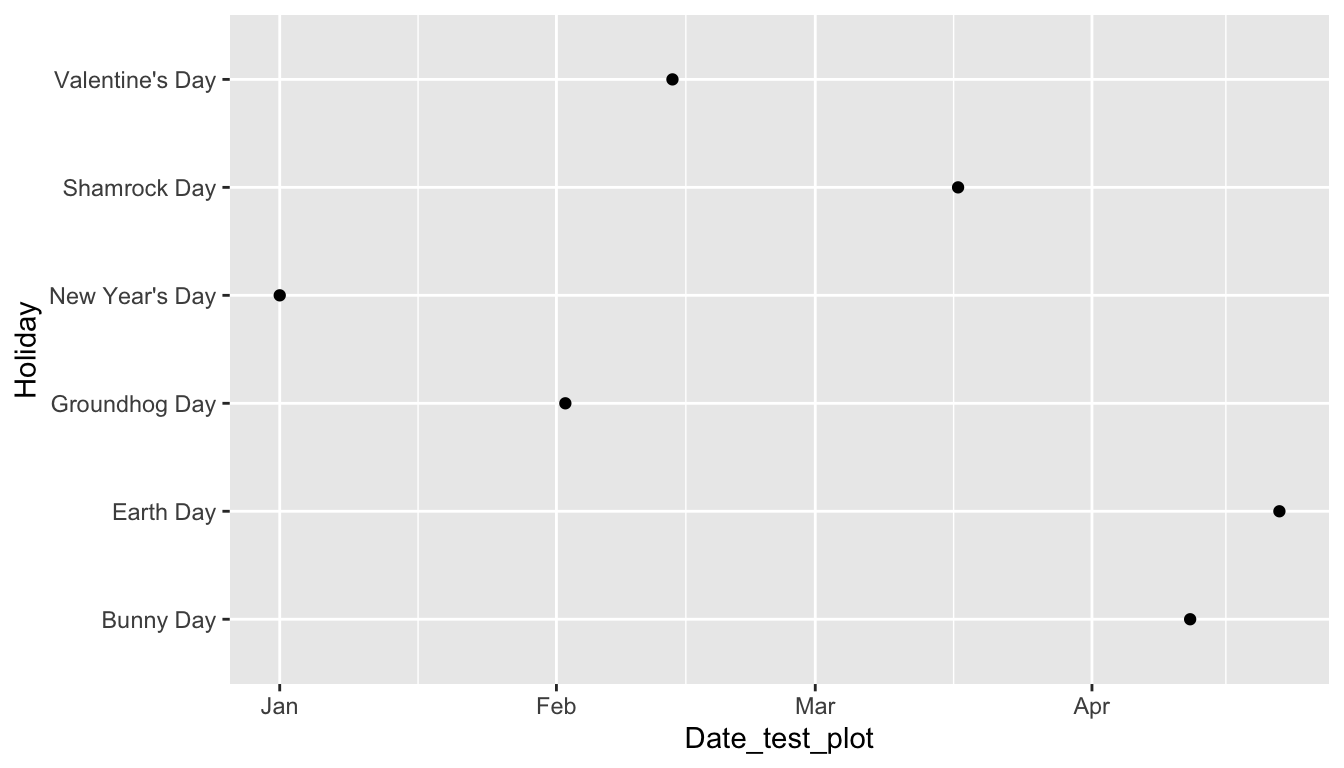
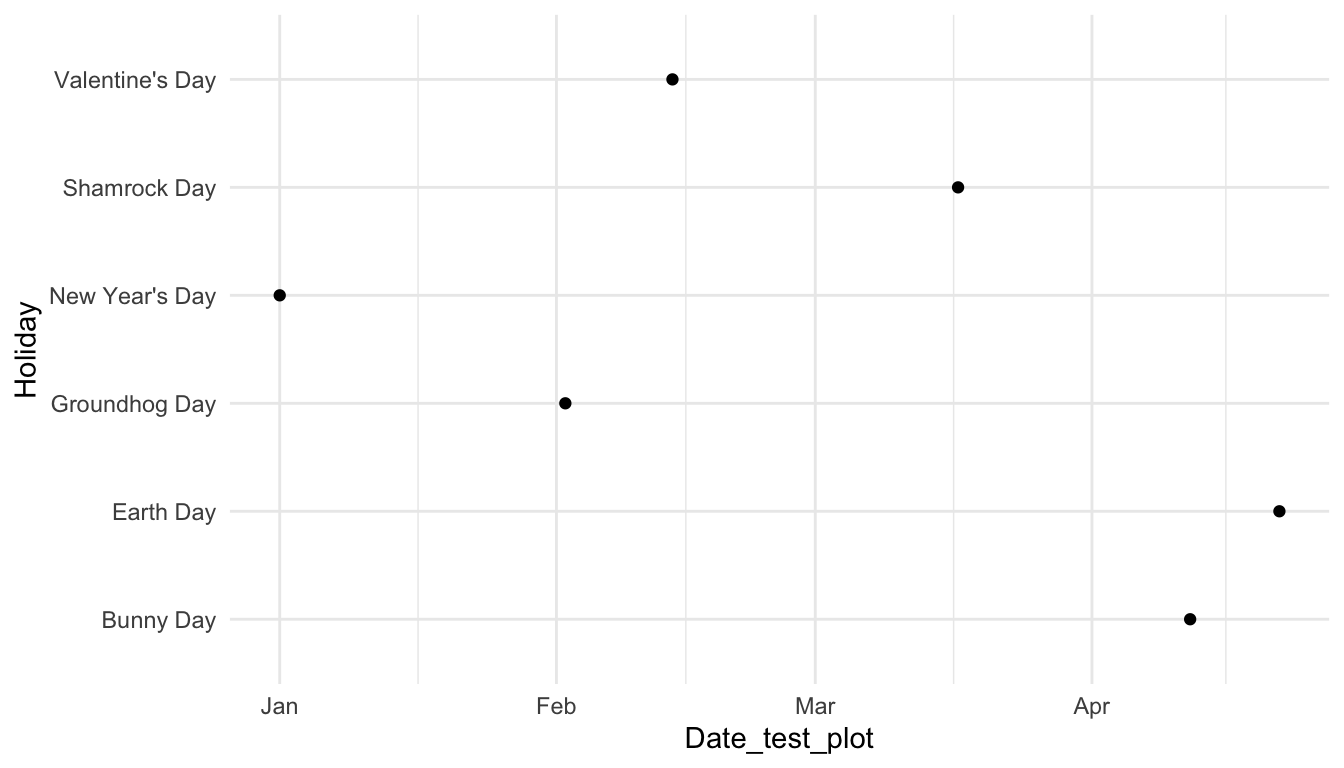
switched knn exercises and added a couple of lubridate exercises on stocks.

diff --git a/docs/11-lubridate.html b/docs/11-lubridate.html
@@ -320,9 +320,9 @@ pre > code.sourceCode > span > a:first-child::before { text-decoration: underlin
 <div class="sourceCode" id="cb1"><pre class="downlit sourceCode r code-with-copy"><code class="sourceCode R"><span><span class="kw"><a href="https://rdrr.io/r/base/library.html">library</a></span><span class="op">(</span><span class="va"><a href="https://tidyverse.tidyverse.org">tidyverse</a></span><span class="op">)</span></span>
 <span><span class="kw"><a href="https://rdrr.io/r/base/library.html">library</a></span><span class="op">(</span><span class="va"><a href="https://lubridate.tidyverse.org">lubridate</a></span><span class="op">)</span></span>
 <span><span class="fu"><a href="https://lubridate.tidyverse.org/reference/now.html">today</a></span><span class="op">(</span><span class="op">)</span></span>
-<span><span class="co">#&gt; [1] "2024-03-31"</span></span>
+<span><span class="co">#&gt; [1] "2024-04-04"</span></span>
 <span><span class="fu"><a href="https://lubridate.tidyverse.org/reference/now.html">now</a></span><span class="op">(</span><span class="op">)</span></span>
-<span><span class="co">#&gt; [1] "2024-03-31 12:21:26 EDT"</span></span></code><button title="Copy to Clipboard" class="code-copy-button"><i class="bi"></i></button></pre></div>
+<span><span class="co">#&gt; [1] "2024-04-04 09:24:30 EDT"</span></span></code><button title="Copy to Clipboard" class="code-copy-button"><i class="bi"></i></button></pre></div>
 </div>
 <p>This first section will deal with how to convert a variable in <code>R</code> to be a <code>Date</code>. We will use a data set that has the holidays of Animal Crossing from January to April. The columns in this data set are:</p>
 <ul>
@@ -401,7 +401,8 @@ Important
 <p><strong>A Reminder</strong>: Why do <code>&lt;date&gt;</code> objects even matter? Compare the following two plots: one made where the date is in <code>&lt;chr&gt;</code> form and the other where date is in its appropriate <code>&lt;date&gt;</code> form.</p>
 <div class="cell" data-appendix="true">
 <div class="sourceCode" id="cb4"><pre class="downlit sourceCode r code-with-copy"><code class="sourceCode R"><span><span class="fu"><a href="https://ggplot2.tidyverse.org/reference/ggplot.html">ggplot</a></span><span class="op">(</span>data <span class="op">=</span> <span class="va">holiday_df</span>, <span class="fu"><a href="https://ggplot2.tidyverse.org/reference/aes.html">aes</a></span><span class="op">(</span>x <span class="op">=</span> <span class="va">Date1</span>, y <span class="op">=</span> <span class="va">Holiday</span><span class="op">)</span><span class="op">)</span> <span class="op">+</span></span>
-<span>  <span class="fu"><a href="https://ggplot2.tidyverse.org/reference/geom_point.html">geom_point</a></span><span class="op">(</span><span class="op">)</span></span></code><button title="Copy to Clipboard" class="code-copy-button"><i class="bi"></i></button></pre></div>
+<span>  <span class="fu"><a href="https://ggplot2.tidyverse.org/reference/geom_point.html">geom_point</a></span><span class="op">(</span><span class="op">)</span> <span class="op">+</span> </span>
+<span>  <span class="fu"><a href="https://ggplot2.tidyverse.org/reference/ggtheme.html">theme_minimal</a></span><span class="op">(</span><span class="op">)</span></span></code><button title="Copy to Clipboard" class="code-copy-button"><i class="bi"></i></button></pre></div>
 <div class="cell-output-display">
 <p><img src="11-lubridate_files/figure-html/unnamed-chunk-5-1.png" class="img-fluid" width="672"></p>
 </div>
@@ -409,7 +410,8 @@ Important
 <span><span class="va">holiday_df</span> <span class="op">&lt;-</span> <span class="va">holiday_df</span> <span class="op">|&gt;</span> <span class="fu"><a href="https://dplyr.tidyverse.org/reference/mutate.html">mutate</a></span><span class="op">(</span>Date_test_plot <span class="op">=</span> <span class="fu"><a href="https://lubridate.tidyverse.org/reference/ymd.html">dmy</a></span><span class="op">(</span><span class="va">Date1</span><span class="op">)</span><span class="op">)</span> <span class="op">|&gt;</span></span>
 <span>  <span class="fu"><a href="https://dplyr.tidyverse.org/reference/select.html">select</a></span><span class="op">(</span><span class="va">Date_test_plot</span>, <span class="fu"><a href="https://tidyselect.r-lib.org/reference/everything.html">everything</a></span><span class="op">(</span><span class="op">)</span><span class="op">)</span></span>
 <span><span class="fu"><a href="https://ggplot2.tidyverse.org/reference/ggplot.html">ggplot</a></span><span class="op">(</span>data <span class="op">=</span> <span class="va">holiday_df</span>, <span class="fu"><a href="https://ggplot2.tidyverse.org/reference/aes.html">aes</a></span><span class="op">(</span>x <span class="op">=</span> <span class="va">Date_test_plot</span>, y <span class="op">=</span> <span class="va">Holiday</span><span class="op">)</span><span class="op">)</span> <span class="op">+</span></span>
-<span>  <span class="fu"><a href="https://ggplot2.tidyverse.org/reference/geom_point.html">geom_point</a></span><span class="op">(</span><span class="op">)</span></span></code><button title="Copy to Clipboard" class="code-copy-button"><i class="bi"></i></button></pre></div>
+<span>  <span class="fu"><a href="https://ggplot2.tidyverse.org/reference/geom_point.html">geom_point</a></span><span class="op">(</span><span class="op">)</span> <span class="op">+</span></span>
+<span>  <span class="fu"><a href="https://ggplot2.tidyverse.org/reference/ggtheme.html">theme_minimal</a></span><span class="op">(</span><span class="op">)</span></span></code><button title="Copy to Clipboard" class="code-copy-button"><i class="bi"></i></button></pre></div>
 <div class="cell-output-display">
 <p><img src="11-lubridate_files/figure-html/unnamed-chunk-5-2.png" class="img-fluid" width="672"></p>
 </div>
@@ -537,7 +539,8 @@ Note
 <div class="cell" data-appendix="true">
 <div class="sourceCode" id="cb10"><pre class="downlit sourceCode r code-with-copy"><code class="sourceCode R"><span><span class="va">stocks_sp</span> <span class="op">&lt;-</span> <span class="va">stocks_long</span> <span class="op">|&gt;</span> <span class="fu"><a href="https://dplyr.tidyverse.org/reference/filter.html">filter</a></span><span class="op">(</span><span class="va">Stock_Type</span> <span class="op">==</span> <span class="st">"S &amp; P 500"</span><span class="op">)</span></span>
 <span><span class="fu"><a href="https://ggplot2.tidyverse.org/reference/ggplot.html">ggplot</a></span><span class="op">(</span>data <span class="op">=</span> <span class="va">stocks_sp</span>, <span class="fu"><a href="https://ggplot2.tidyverse.org/reference/aes.html">aes</a></span><span class="op">(</span>x <span class="op">=</span> <span class="va">start_date</span>, y <span class="op">=</span> <span class="va">Price</span><span class="op">)</span><span class="op">)</span> <span class="op">+</span></span>
-<span>  <span class="fu"><a href="https://ggplot2.tidyverse.org/reference/geom_path.html">geom_line</a></span><span class="op">(</span><span class="op">)</span></span></code><button title="Copy to Clipboard" class="code-copy-button"><i class="bi"></i></button></pre></div>
+<span>  <span class="fu"><a href="https://ggplot2.tidyverse.org/reference/geom_path.html">geom_line</a></span><span class="op">(</span><span class="op">)</span> <span class="op">+</span></span>
+<span>  <span class="fu"><a href="https://ggplot2.tidyverse.org/reference/ggtheme.html">theme_minimal</a></span><span class="op">(</span><span class="op">)</span></span></code><button title="Copy to Clipboard" class="code-copy-button"><i class="bi"></i></button></pre></div>
 <div class="cell-output-display">
 <p><img src="11-lubridate_files/figure-html/unnamed-chunk-10-1.png" class="img-fluid" width="672"></p>
 </div>
@@ -642,19 +645,7 @@ Note
 <span class="header-section-number">12.3</span> Practice</h2>
 <section id="class-exercises" class="level3" data-number="12.3.1"><h3 data-number="12.3.1" class="anchored" data-anchor-id="class-exercises">
 <span class="header-section-number">12.3.1</span> Class Exercises</h3>
-<p><strong>Class Exercise 1</strong>. The <code>truncated</code> argument to <code><a href="https://lubridate.tidyverse.org/reference/ymd.html">ymd()</a></code>, <code><a href="https://lubridate.tidyverse.org/reference/ymd.html">dmy()</a></code>, <code><a href="https://lubridate.tidyverse.org/reference/ymd.html">mdy()</a></code>, etc. will allow <code>R</code> to parse dates that aren’t actually complete. For example,</p>
-<div class="cell">
-<div class="sourceCode" id="cb16"><pre class="downlit sourceCode r code-with-copy"><code class="sourceCode R"><span><span class="kw"><a href="https://rdrr.io/r/base/library.html">library</a></span><span class="op">(</span><span class="va"><a href="https://lubridate.tidyverse.org">lubridate</a></span><span class="op">)</span></span>
-<span><span class="fu"><a href="https://lubridate.tidyverse.org/reference/ymd.html">ymd</a></span><span class="op">(</span><span class="st">"2019"</span>, truncated <span class="op">=</span> <span class="fl">2</span><span class="op">)</span></span>
-<span><span class="co">#&gt; [1] "2019-01-01"</span></span></code><button title="Copy to Clipboard" class="code-copy-button"><i class="bi"></i></button></pre></div>
-</div>
-<p>parses <code>2019</code> to be January 1, 2019 when the month and day are missing. The <code>2</code> means that the last two parts of the date (in this case, month and day) are allowed to be missing. Similarly,</p>
-<div class="cell">
-<div class="sourceCode" id="cb17"><pre class="downlit sourceCode r code-with-copy"><code class="sourceCode R"><span><span class="fu"><a href="https://lubridate.tidyverse.org/reference/ymd.html">dmy</a></span><span class="op">(</span><span class="st">"19-10"</span>, truncated <span class="op">=</span> <span class="fl">1</span><span class="op">)</span></span>
-<span><span class="co">#&gt; [1] "0000-10-19"</span></span></code><button title="Copy to Clipboard" class="code-copy-button"><i class="bi"></i></button></pre></div>
-</div>
-<p>truncates the year (which is given as <code>0000</code>). The truncate function is usually most useful in the context of the first example with a truncated month and/or day.</p>
-<p>Examine the <code>ds_google.csv</code>, which contains</p>
+<p>Examine the <code>ds_google.csv</code> data, which contains</p>
 <ul>
 <li>
 <code>Month</code>, the year and month from 2004 to now</li>
@@ -662,7 +653,7 @@ Note
 <code>Data_Science</code>, the relative popularity of data science (Google keeps how it calculates “popularity” as somewhat of a mystery but it is likely based off of the number of times people search for the term “Data Science”)</li>
 </ul>
 <div class="cell">
-<div class="sourceCode" id="cb18"><pre class="downlit sourceCode r code-with-copy"><code class="sourceCode R"><span><span class="kw"><a href="https://rdrr.io/r/base/library.html">library</a></span><span class="op">(</span><span class="va"><a href="https://tidyverse.tidyverse.org">tidyverse</a></span><span class="op">)</span></span>
+<div class="sourceCode" id="cb16"><pre class="downlit sourceCode r code-with-copy"><code class="sourceCode R"><span><span class="kw"><a href="https://rdrr.io/r/base/library.html">library</a></span><span class="op">(</span><span class="va"><a href="https://tidyverse.tidyverse.org">tidyverse</a></span><span class="op">)</span></span>
 <span><span class="kw"><a href="https://rdrr.io/r/base/library.html">library</a></span><span class="op">(</span><span class="va"><a href="https://lubridate.tidyverse.org">lubridate</a></span><span class="op">)</span></span>
 <span><span class="va">ds_df</span> <span class="op">&lt;-</span> <span class="fu"><a href="https://readr.tidyverse.org/reference/read_delim.html">read_csv</a></span><span class="op">(</span><span class="fu"><a href="https://here.r-lib.org//reference/here.html">here</a></span><span class="op">(</span><span class="st">"data/ds_google.csv"</span><span class="op">)</span><span class="op">)</span></span>
 <span><span class="va">ds_df</span></span>
@@ -677,10 +668,13 @@ Note
 <span><span class="co">#&gt; 6 2004-06            8</span></span>
 <span><span class="co">#&gt; # ℹ 196 more rows</span></span></code><button title="Copy to Clipboard" class="code-copy-button"><i class="bi"></i></button></pre></div>
 </div>
-<p>Use a <code>lubridate</code> function with the <code>truncated</code> option to convert the <code>Month</code> variable to be in the <code>&lt;date&gt;</code> format.</p>
+<p><strong>Class Exercise 1</strong>. Use a <code>lubridate</code> function to convert the <code>Month</code> variable to be in the <code>&lt;date&gt;</code> format. Note that, in addition to <code><a href="https://lubridate.tidyverse.org/reference/ymd.html">mdy()</a></code>, <code><a href="https://lubridate.tidyverse.org/reference/ymd.html">dmy()</a></code>, <code><a href="https://lubridate.tidyverse.org/reference/ymd.html">ymd()</a></code>, etc., there are also functions in lubridate like <code>md()</code>, <code>dm()</code>, and <code><a href="https://lubridate.tidyverse.org/reference/ymd.html">ym()</a></code> that are useful if only two of the three parts of a date are present in a variable.</p>
+<p>After converting the <code>Month</code> variable to a date, figure out what <code>R</code> does for the “day” part of the date when it’s not specified in the original variable.</p>
 <p><strong>Class Exercise 2</strong>. Make a plot of the popularity of Data Science through Time. Add a smoother to your plot. What patterns do you notice?</p>
 <p><strong>Class Exercise 3</strong>. Modify the code in the tutorial section on the Stocks data to get a data frame on stock prices for the now infamous Gamestop stock. Construct a line plot of the price through time.</p>
-<p><strong>Class Exercise 4</strong>. Use the <code><a href="https://dplyr.tidyverse.org/reference/lead-lag.html">lag()</a></code> function to create a new variable that is the previous day’s stock price. Can you predict the current stock price based on the previous day’s stock price accurately? Why or why not? Use either graphical or numerical evidence.</p>
+<p><strong>Class Exercise 4</strong>. Choose <strong>one</strong> stock and use the <code><a href="https://dplyr.tidyverse.org/reference/lead-lag.html">lag()</a></code> function to create a new variable that is the previous day’s stock price for that stock. For what proportion of days was the stock’s closing price <strong>higher</strong> than it was at close for the day before (indicating that someone who bought shares on Day xxx would have made money at the end of Day xxx + 1).</p>
+<p><strong>Class Exercise 5</strong>. Those interested in finance/economics might see the naivety of the approach above: usually, the stock market is more thought of as a long-term investment, not a day-to-day investment. For the stock that you selected, adjust your analysis so that you compute the proportion of weeks that a stock’s closing price was <strong>higher</strong> than it was at close the week before. To simplify things a little, you should only compute this proportion for <strong>Wednesdays</strong> (and drop the rest of the data).</p>
+<p><strong>Class Exercise 6</strong>. Those interested in finance/economics might see the naivety of the approach above: usually, the stock market is more thought of as a long-term investment, not a week-to-week investment. For the stock that you selected, adjust your analysis so that you compute the proportion of months that a stock’s closing price was <strong>higher</strong> than it was at close the month before. To simplify things a little, you should only compute this proportion for <strong>the first day of each month</strong> (and drop the rest of the data).</p>
 </section><section id="your-turn" class="level3" data-number="12.3.2"><h3 data-number="12.3.2" class="anchored" data-anchor-id="your-turn">
 <span class="header-section-number">12.3.2</span> Your Turn</h3>
 <p>The data in the Class Exercises was obtained from Google Trends: <a href="https://trends.google.com/trends/?geo=US" target="_blank">Google Trends</a>. Google Trends is incredibly cool to explore, even without <code>R</code>.</p>

diff --git a/docs/13-knn.html b/docs/13-knn.html
@@ -458,20 +458,52 @@ Note
 <span><span class="va">tab</span> <span class="op">&lt;-</span> <span class="fu"><a href="https://rdrr.io/r/base/table.html">table</a></span><span class="op">(</span><span class="va">knn_mod</span>, <span class="va">test_cat</span><span class="op">)</span></span>
 <span><span class="fu"><a href="https://rdrr.io/r/base/sum.html">sum</a></span><span class="op">(</span><span class="fu"><a href="https://rdrr.io/r/base/diag.html">diag</a></span><span class="op">(</span><span class="va">tab</span><span class="op">)</span><span class="op">)</span> <span class="op">/</span> <span class="fu"><a href="https://rdrr.io/r/base/sum.html">sum</a></span><span class="op">(</span><span class="va">tab</span><span class="op">)</span></span></code><button title="Copy to Clipboard" class="code-copy-button"><i class="bi"></i></button></pre></div>
 </div>
-<p>If we want to automate generating a classification rate for a knn model with particular predictors, we have two major choices: loop through different values of <span class="math inline">\(k\)</span> or write a function and <code><a href="https://purrr.tidyverse.org/reference/map.html">map()</a></code> across different values of <span class="math inline">\(k\)</span>.</p>
-<p><strong>Class Exercise 1</strong>. First, we will see how this would work if we were to write a for loop for different values of <span class="math inline">\(k\)</span>:</p>
+<p>If we want to automate generating a classification rate for a knn model with particular predictors, we have two major choices: write a function and <code><a href="https://purrr.tidyverse.org/reference/map.html">map()</a></code> across different values of <span class="math inline">\(k\)</span> or loop through different values of <span class="math inline">\(k\)</span> with a <code>for</code> loop.</p>
+<p><strong>Class Exercise 1</strong>. First, we will take a functional programming approach, by writing a function and “mapping” different values of <span class="math inline">\(k\)</span> through that function. The following code writes a function called <code>get_class_rate</code> that has just a single argument: <code>k_val</code></p>
 <div class="cell">
-<div class="sourceCode" id="cb9"><pre class="downlit sourceCode r code-with-copy"><code class="sourceCode R"><span><span class="co">## define an empty vector to store results</span></span>
+<div class="sourceCode" id="cb9"><pre class="downlit sourceCode r code-with-copy"><code class="sourceCode R"><span><span class="va">get_class_rate</span> <span class="op">&lt;-</span> <span class="kw">function</span><span class="op">(</span><span class="va">k_val</span><span class="op">)</span> <span class="op">{</span></span>
+<span>  <span class="va">knn_mod</span> <span class="op">&lt;-</span> <span class="fu"><a href="https://rdrr.io/pkg/class/man/knn.html">knn</a></span><span class="op">(</span>train <span class="op">=</span> <span class="va">train_pokemon</span>, test <span class="op">=</span> <span class="va">test_pokemon</span>,</span>
+<span>                 cl <span class="op">=</span> <span class="va">train_cat</span>, k <span class="op">=</span> <span class="va">k_val</span><span class="op">)</span></span>
+<span>  <span class="va">knn_mod</span></span>
+<span>  </span>
+<span>  <span class="va">tab</span> <span class="op">&lt;-</span> <span class="fu"><a href="https://rdrr.io/r/base/table.html">table</a></span><span class="op">(</span><span class="va">knn_mod</span>, <span class="va">test_cat</span><span class="op">)</span></span>
+<span>  <span class="va">class_rate</span> <span class="op">&lt;-</span> <span class="fu"><a href="https://rdrr.io/r/base/sum.html">sum</a></span><span class="op">(</span><span class="fu"><a href="https://rdrr.io/r/base/diag.html">diag</a></span><span class="op">(</span><span class="va">tab</span><span class="op">)</span><span class="op">)</span> <span class="op">/</span> <span class="fu"><a href="https://rdrr.io/r/base/sum.html">sum</a></span><span class="op">(</span><span class="va">tab</span><span class="op">)</span></span>
+<span>  </span>
+<span>  <span class="kw"><a href="https://rdrr.io/r/base/function.html">return</a></span><span class="op">(</span><span class="va">class_rate</span><span class="op">)</span></span>
+<span><span class="op">}</span></span></code><button title="Copy to Clipboard" class="code-copy-button"><i class="bi"></i></button></pre></div>
+</div>
+<ol type="a">
+<li><p>Run the code and then test the function by running <code>get_class_rate(k_val = 10)</code>, which should return the classification rate using <code>10</code> nearest neighbors.</p></li>
+<li><p>Together, we will define a vector of k values that we want to map through the function and then write code to perform the mapping using the <code><a href="https://purrr.tidyverse.org/reference/map.html">map()</a></code> function from the <code>purrr</code> package.</p></li>
+</ol>
+<ol start="3" type="a">
+<li>Put the classification rates, along with the vector of k values into a <code><a href="https://tibble.tidyverse.org/reference/tibble.html">tibble()</a></code>.</li>
+</ol>
+<ol start="4" type="a">
+<li>Make a line plot that shows how the classification rate changes for different values of <code>k</code>.</li>
+</ol>
+<p>The code below gives an equivalent way to map or loop through values of <span class="math inline">\(k\)</span> using a <code>for</code> loop. If you have taken CS 140, you should be able to see a lot of similarities between how loops are defiend in <code>R</code> and how they are defined in Python.</p>
+<div class="cell">
+<div class="sourceCode" id="cb10"><pre class="downlit sourceCode r code-with-copy"><code class="sourceCode R"><span><span class="co">## define an empty vector to store results</span></span>
 <span><span class="va">class_rate</span> <span class="op">&lt;-</span> <span class="fu"><a href="https://rdrr.io/r/base/double.html">double</a></span><span class="op">(</span><span class="op">)</span></span>
 <span></span>
-<span><span class="va">knn_mod</span> <span class="op">&lt;-</span> <span class="fu"><a href="https://rdrr.io/pkg/class/man/knn.html">knn</a></span><span class="op">(</span>train <span class="op">=</span> <span class="va">train_pokemon</span>, test <span class="op">=</span> <span class="va">test_pokemon</span>,</span>
-<span>               cl <span class="op">=</span> <span class="va">train_cat</span>, k <span class="op">=</span> <span class="fl">9</span><span class="op">)</span></span>
-<span><span class="va">knn_mod</span></span>
+<span><span class="co">## define values of k that we want to loop through</span></span>
+<span><span class="va">k_vec</span> <span class="op">&lt;-</span> <span class="fl">1</span><span class="op">:</span><span class="fl">70</span></span>
 <span></span>
-<span><span class="va">tab</span> <span class="op">&lt;-</span> <span class="fu"><a href="https://rdrr.io/r/base/table.html">table</a></span><span class="op">(</span><span class="va">knn_mod</span>, <span class="va">test_cat</span><span class="op">)</span></span>
-<span><span class="fu"><a href="https://rdrr.io/r/base/sum.html">sum</a></span><span class="op">(</span><span class="fu"><a href="https://rdrr.io/r/base/diag.html">diag</a></span><span class="op">(</span><span class="va">tab</span><span class="op">)</span><span class="op">)</span> <span class="op">/</span> <span class="fu"><a href="https://rdrr.io/r/base/sum.html">sum</a></span><span class="op">(</span><span class="va">tab</span><span class="op">)</span></span></code><button title="Copy to Clipboard" class="code-copy-button"><i class="bi"></i></button></pre></div>
+<span><span class="kw">for</span> <span class="op">(</span><span class="va">i</span> <span class="kw">in</span> <span class="fl">1</span><span class="op">:</span><span class="fl">70</span><span class="op">)</span> <span class="op">{</span></span>
+<span>  <span class="va">knn_mod</span> <span class="op">&lt;-</span> <span class="fu"><a href="https://rdrr.io/pkg/class/man/knn.html">knn</a></span><span class="op">(</span>train <span class="op">=</span> <span class="va">train_pokemon</span>, test <span class="op">=</span> <span class="va">test_pokemon</span>,</span>
+<span>                 cl <span class="op">=</span> <span class="va">train_cat</span>, k <span class="op">=</span> <span class="va">k_vec</span><span class="op">[</span><span class="va">i</span><span class="op">]</span><span class="op">)</span></span>
+<span>  <span class="va">knn_mod</span></span>
+<span>  </span>
+<span>  <span class="va">tab</span> <span class="op">&lt;-</span> <span class="fu"><a href="https://rdrr.io/r/base/table.html">table</a></span><span class="op">(</span><span class="va">knn_mod</span>, <span class="va">test_cat</span><span class="op">)</span></span>
+<span>  </span>
+<span>  <span class="co">## for the ith value of k_vec, store the classification rate as </span></span>
+<span>  <span class="co">## the ith value of class_rate</span></span>
+<span>  <span class="va">class_rate</span><span class="op">[</span><span class="va">i</span><span class="op">]</span> <span class="op">&lt;-</span> <span class="fu"><a href="https://rdrr.io/r/base/sum.html">sum</a></span><span class="op">(</span><span class="fu"><a href="https://rdrr.io/r/base/diag.html">diag</a></span><span class="op">(</span><span class="va">tab</span><span class="op">)</span><span class="op">)</span> <span class="op">/</span> <span class="fu"><a href="https://rdrr.io/r/base/sum.html">sum</a></span><span class="op">(</span><span class="va">tab</span><span class="op">)</span></span>
+<span><span class="op">}</span></span>
+<span></span>
+<span><span class="va">class_rate</span></span></code><button title="Copy to Clipboard" class="code-copy-button"><i class="bi"></i></button></pre></div>
 </div>
-<p><strong>Class Exercise 2</strong>. Next, we will take a functional programming approach, by writing a function and mapping different values of <span class="math inline">\(k\)</span> through that function.</p>
 </section><section id="your-turn" class="level3" data-number="14.4.2"><h3 data-number="14.4.2" class="anchored" data-anchor-id="your-turn">
 <span class="header-section-number">14.4.2</span> Your Turn</h3>
 <p>There will be no your turn exercises for this section. Instead, you will apply some of these concepts in your third project.</p>
